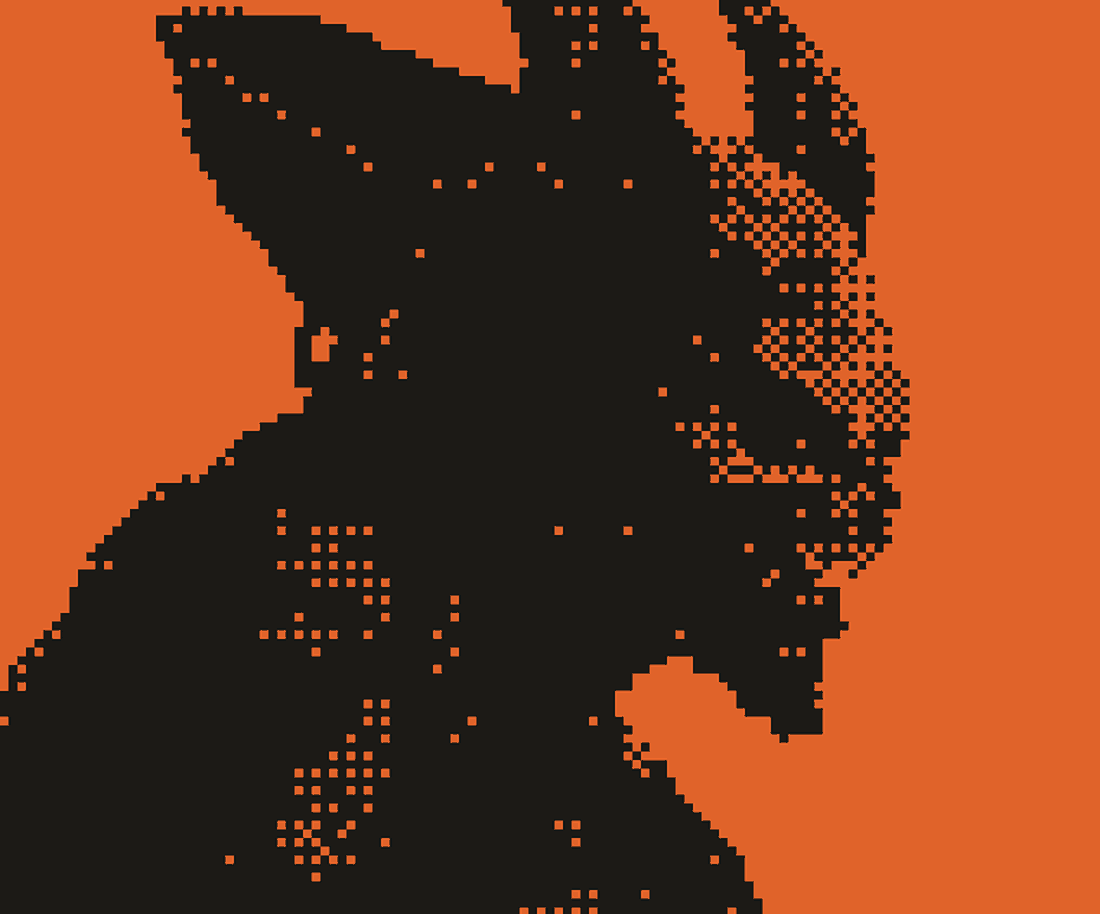
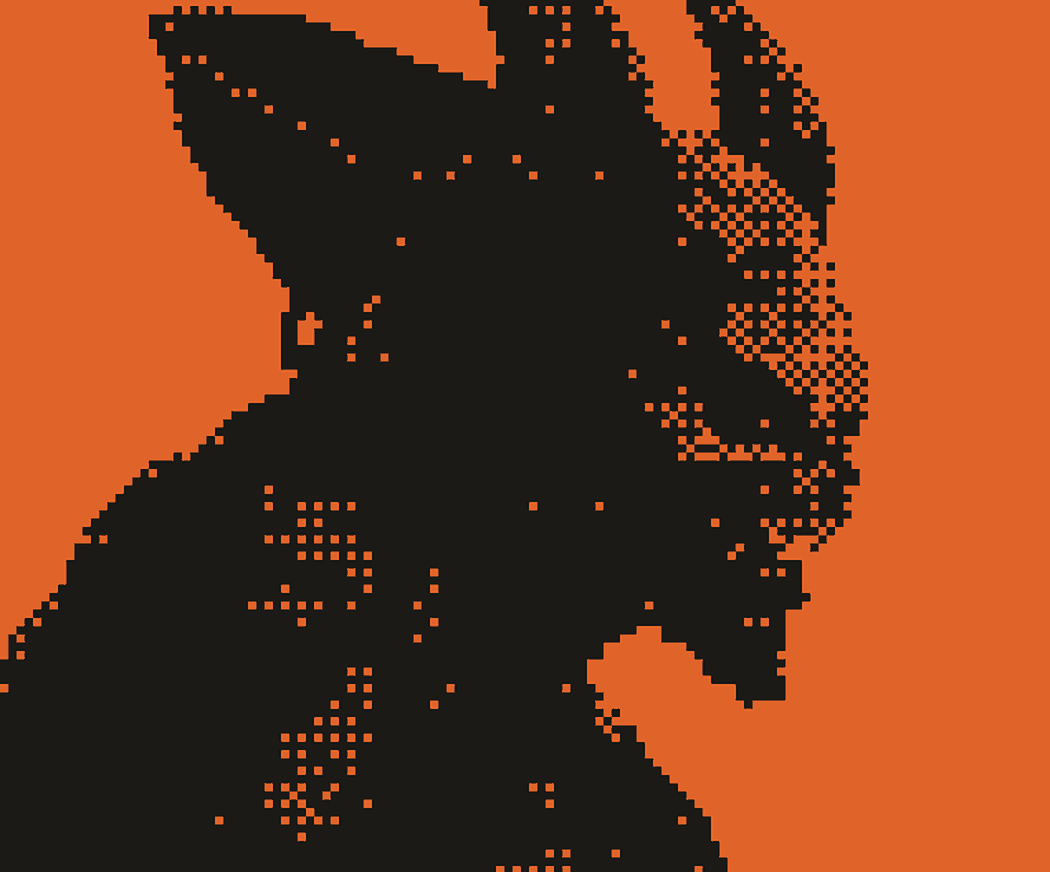
Retours 16/07 : prologue sans tags, CTA après la description, bloc démon refait, croix pixel alignée
- Prologue : plus de tag de stat sur les choix du Seuil (maquette 1997:578)
- Les CTA n'apparaissent qu'une fois tout le texte de la scène écrit,
  y compris à l'ouverture ; le compte à rebours chronométré attend aussi
- Bloc démon : nouveau portrait gros-pixels (PJ) pleine hauteur au bord
  gauche, franges inversées horizontalement
- Menu : croix de fermeture en pixel art (asset Figma Group 15), posée
  exactement sur la position du burger — plus de décalage à l'ouverture

Claude-Session: https://claude.ai/code/session_015My4MqrUD9CADDLuz9Wdmt

diff --git a/aldenhar/components/Scene.tsx b/aldenhar/components/Scene.tsx
@@ -242,7 +242,10 @@ export default function Scene() {
       timedTimer.current = null;
     }
     const timed = scene.timed;
-    const canRun = !!timed && !timedExpired && !choicesHidden && !selectedId && !rolling;
+    // Les choix ne sont « réellement jouables » qu'une fois tout le texte
+    // écrit (retour Patrick 16/07 : le bloc de CTA n'apparaît qu'à la fin
+    // de la description) — le compte à rebours attend comme eux.
+    const canRun = !!timed && !timedExpired && !choicesHidden && !activeTypingId && !selectedId && !rolling;
     // eslint-disable-next-line react-hooks/set-state-in-effect -- reflète l'état d'armement du compte à rebours dans l'UI, synchronisé au cycle de la scène
     setCountdownArmed(canRun);
     if (canRun && timed) {
@@ -255,7 +258,7 @@ export default function Scene() {
       }
     };
     // eslint-disable-next-line react-hooks/exhaustive-deps
-  }, [scene, step, choicesHidden, selectedId, rolling, timedExpired]);
+  }, [scene, step, choicesHidden, activeTypingId, selectedId, rolling, timedExpired]);
 
   function persist(mutate: (run: RunState) => void) {
     const run = runRef.current ?? loadRun();
@@ -565,7 +568,7 @@ export default function Scene() {
         <div
           className={`choices-bar relative z-[3] flex w-full flex-col gap-[10px] border-t border-[var(--color-ink)]/15 px-[15px] py-[15px] ${
             rolling ? "pointer-events-none" : ""
-          } ${choicesHidden ? "choices-hidden" : ""}`}
+          } ${choicesHidden || activeTypingId ? "choices-hidden" : ""}`}
         >
           {shuffledChoices.map((choice) => (
             <ChoiceButton
@@ -716,15 +719,15 @@ function FeedItem({
         </p>
       );
     case "jailer":
-      // Bloc refait au propre (Figma 1925:614 + PJ Patrick, 14/07 soir) :
-      // bandeau orange de 87px, portrait HD du Geôlier ancré au bord GAUCHE
-      // (il fait déjà face au texte, sa dissolution en pixels est cuite dans
-      // l'image — plus de mirror ni de masque CSS), franges de pixels charbon
-      // en haut et en bas qui scintillent uniquement pendant que le Geôlier
-      // parle, puis se figent. Texte mono gras charbon, décalé à 122px.
+      // Bloc refait sur la maquette 1925:614 (retour Patrick 16/07) : bandeau
+      // orange de 87px, NOUVEAU portrait gros-pixels du Geôlier (PJ 16/07,
+      // fond orange cuit dans l'image) posé pleine hauteur au bord GAUCHE,
+      // sans débord ; franges de pixels charbon INVERSÉES horizontalement,
+      // qui scintillent uniquement pendant qu'il parle. Texte mono gras
+      // charbon, décalé à 122px.
       return (
         <div
-          className={`scene-enter jailer-banner mx-[-17px] mb-[18px] mt-[15px] relative flex min-h-[87px] items-center bg-[var(--color-accent)] pl-[122px] pr-[20px] py-[16px] ${
+          className={`scene-enter jailer-banner mx-[-17px] mb-[18px] mt-[15px] relative flex min-h-[87px] items-center overflow-hidden bg-[var(--color-accent)] pl-[122px] pr-[20px] py-[16px] ${
             typed ? "jailer-speaking" : ""
           }`}
         >
@@ -738,14 +741,13 @@ function FeedItem({
             style={{ backgroundImage: 'url("assets/frange_geolier.svg")' }}
             aria-hidden
           />
-          <div className="jailer-portrait pointer-events-none absolute top-[-15px] left-0 z-0 h-[118px] w-[100px] overflow-hidden">
-            {/* eslint-disable-next-line @next/next/no-img-element */}
-            <img
-              alt=""
-              src="assets/geolier_portrait.png"
-              className="block h-full w-full object-cover object-left"
-            />
-          </div>
+          {/* eslint-disable-next-line @next/next/no-img-element */}
+          <img
+            alt=""
+            src="assets/geolier_portrait.png"
+            className="pointer-events-none absolute top-0 left-0 z-0 h-full w-auto"
+            style={{ imageRendering: "pixelated" }}
+          />
           <p className="relative z-[1] font-mono text-[13px] font-bold leading-[1.6] text-[var(--color-bg)]">
             <TypedText text={entry.text} typed={typed} skip={skip} msPerChar={42} onDone={onDone} />
           </p>

diff --git a/aldenhar/components/Prologue.tsx b/aldenhar/components/Prologue.tsx
@@ -3,7 +3,7 @@
 import { useEffect, useRef, useState } from "react";
 import { HeroGeolier } from "@/components/HeroGeolier";
 import TypedText from "@/components/TypedText";
-import { computeVerdict, PROLOGUE_AMORCE, PROLOGUE_CLOTURE, PROLOGUE_STAT_LABEL } from "@/lib/prologue-data";
+import { computeVerdict, PROLOGUE_AMORCE, PROLOGUE_CLOTURE } from "@/lib/prologue-data";
 import { loadRun, saveRun, type PrologueMemory, type RunState } from "@/lib/state";
 
 /**
@@ -143,12 +143,7 @@ export default function Prologue({ onDone }: { onDone: () => void }) {
           {isMemory && typedDone && memory && (
             <div className="mt-[28px] flex flex-col gap-[10px]">
               {memory.options.map((label, idx) => (
-                <PrologueChoice
-                  key={idx}
-                  label={label}
-                  tag={PROLOGUE_STAT_LABEL[memory.stat]}
-                  onSelect={() => onChoose(idx)}
-                />
+                <PrologueChoice key={idx} label={label} onSelect={() => onChoose(idx)} />
               ))}
             </div>
           )}
@@ -160,11 +155,12 @@ export default function Prologue({ onDone }: { onDone: () => void }) {
 
 /**
  * Bouton de choix du prologue : même langage que les choix in-game (contour
- * blanc + entailles de coins 2px + tag de stat orange à droite) — jamais la
- * bordure orange de l'accueil. Pas d'érosion santé ici : le héros n'existe
- * pas encore.
+ * blanc + entailles de coins 2px) — jamais la bordure orange de l'accueil,
+ * et SANS tag de stat (retour Patrick 16/07, maquette 1997:578 : la stat
+ * engagée reste invisible pendant le Seuil). Pas d'érosion santé ici : le
+ * héros n'existe pas encore.
  */
-function PrologueChoice({ label, tag, onSelect }: { label: string; tag: string; onSelect: () => void }) {
+function PrologueChoice({ label, onSelect }: { label: string; onSelect: () => void }) {
   return (
     <button
       type="button"
@@ -180,11 +176,8 @@ function PrologueChoice({ label, tag, onSelect }: { label: string; tag: string; 
       <span className="absolute bottom-0 left-0 size-[2px] bg-[var(--color-bg)]" aria-hidden />
       <span className="absolute top-0 right-0 size-[2px] bg-[var(--color-bg)]" aria-hidden />
       <span className="absolute bottom-0 right-0 size-[2px] bg-[var(--color-bg)]" aria-hidden />
-      <span className="absolute top-1/2 left-[5%] max-w-[68%] -translate-y-1/2 overflow-hidden font-medium leading-[1.2] text-[14px] whitespace-nowrap text-ellipsis text-[var(--color-ink)]">
+      <span className="absolute top-1/2 left-[5%] max-w-[90%] -translate-y-1/2 overflow-hidden font-medium leading-[1.2] text-[14px] whitespace-nowrap text-ellipsis text-[var(--color-ink)]">
         {label}
-      </span>
-      <span className="absolute top-1/2 right-[4.17%] -translate-y-1/2 font-medium uppercase leading-[1.2] text-[12px] tracking-[0.6px] text-[var(--color-accent)]">
-        {tag}
       </span>
     </button>
   );

diff --git a/aldenhar/components/Home.tsx b/aldenhar/components/Home.tsx
@@ -210,17 +210,18 @@ function HomeOverlay({ kind, onClose }: { kind: "reliques" | "registre"; onClose
   );
 }
 
-/** Croix de fermeture pixel (Figma Group 15) — réutilisée par le menu. */
+/** Croix de fermeture pixel art (asset Figma « Group 15 », 32×32, fourni par
+    Patrick 16/07) — plus jamais deux traits CSS lisses. Réutilisée partout. */
 export function CloseX({ onClose }: { onClose: () => void }) {
   return (
     <button
       type="button"
       aria-label="Fermer"
       onClick={onClose}
-      className="relative size-[32px] cursor-pointer border border-solid border-[var(--color-ink)] bg-transparent"
+      className="block size-[32px] cursor-pointer border-none bg-transparent p-0"
     >
-      <span className="absolute top-1/2 left-1/2 h-px w-[16px] -translate-x-1/2 -translate-y-1/2 rotate-45 bg-[var(--color-ink)]" aria-hidden />
-      <span className="absolute top-1/2 left-1/2 h-px w-[16px] -translate-x-1/2 -translate-y-1/2 -rotate-45 bg-[var(--color-ink)]" aria-hidden />
+      {/* eslint-disable-next-line @next/next/no-img-element */}
+      <img alt="" src="assets/croix_menu.png" className="block size-full" style={{ imageRendering: "pixelated" }} />
     </button>
   );
 }

diff --git a/aldenhar/components/GameMenu.tsx b/aldenhar/components/GameMenu.tsx
@@ -49,12 +49,15 @@ export default function GameMenu({ run, onClose }: { run: RunState; onClose: () 
 
   return (
     <div className="absolute inset-0 z-[8] flex flex-col bg-[var(--color-bg)]">
-      <div className="flex items-center justify-end px-[15px] py-[11px]">
+      {/* La croix occupe EXACTEMENT la position du burger de l'écran de jeu
+          (top 11px / right 10px, 32×32) — aucun décalage à l'ouverture
+          (retour Patrick 16/07). */}
+      <div className="absolute top-[11px] right-[10px] z-[1]">
         <CloseX onClose={onClose} />
       </div>
 
       {/* Onglets — actif crème, inactifs orange (Figma) ; OPTIONS inerte */}
-      <div className="flex items-center justify-center gap-[16px] pb-[16px]">
+      <div className="flex items-center justify-center gap-[16px] pt-[59px] pb-[16px]">
         <TabLink label="STATS" active={tab === "stats"} onClick={() => setTab("stats")} />
         <Diamond />
         <TabLink label="INVENTAIRE" active={tab === "inventaire"} onClick={() => setTab("inventaire")} />

diff --git a/aldenhar/app/globals.css b/aldenhar/app/globals.css
@@ -348,8 +348,10 @@ body {
   pointer-events: none;
   z-index: 2;
 }
-.jailer-fringe-top { top: 0; }
-.jailer-fringe-bottom { bottom: 0; transform: scaleY(-1); }
+/* Franges INVERSÉES horizontalement (retour Patrick 16/07) : le motif est
+   dans le bloc, mais miroité gauche-droite par rapport à l'export brut. */
+.jailer-fringe-top { top: 0; transform: scaleX(-1); }
+.jailer-fringe-bottom { bottom: 0; transform: scale(-1, -1); }
 .jailer-speaking .jailer-fringe {
   animation: jailer-fringe-flicker 0.34s steps(2) infinite;
 }
